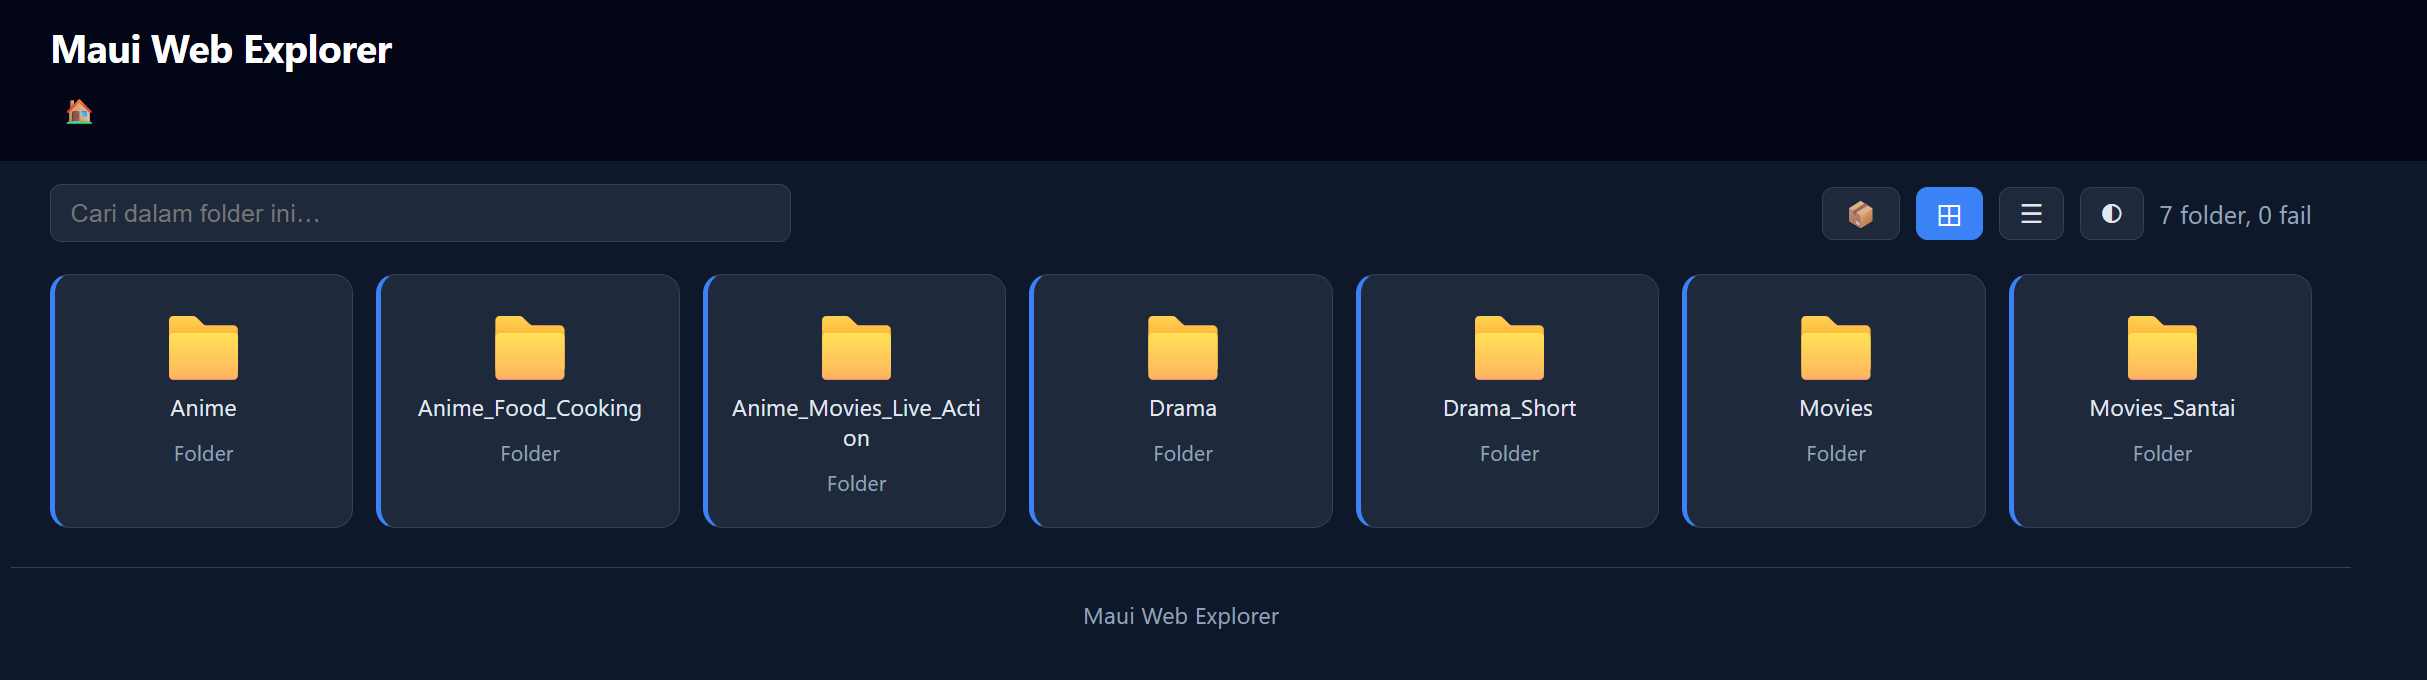
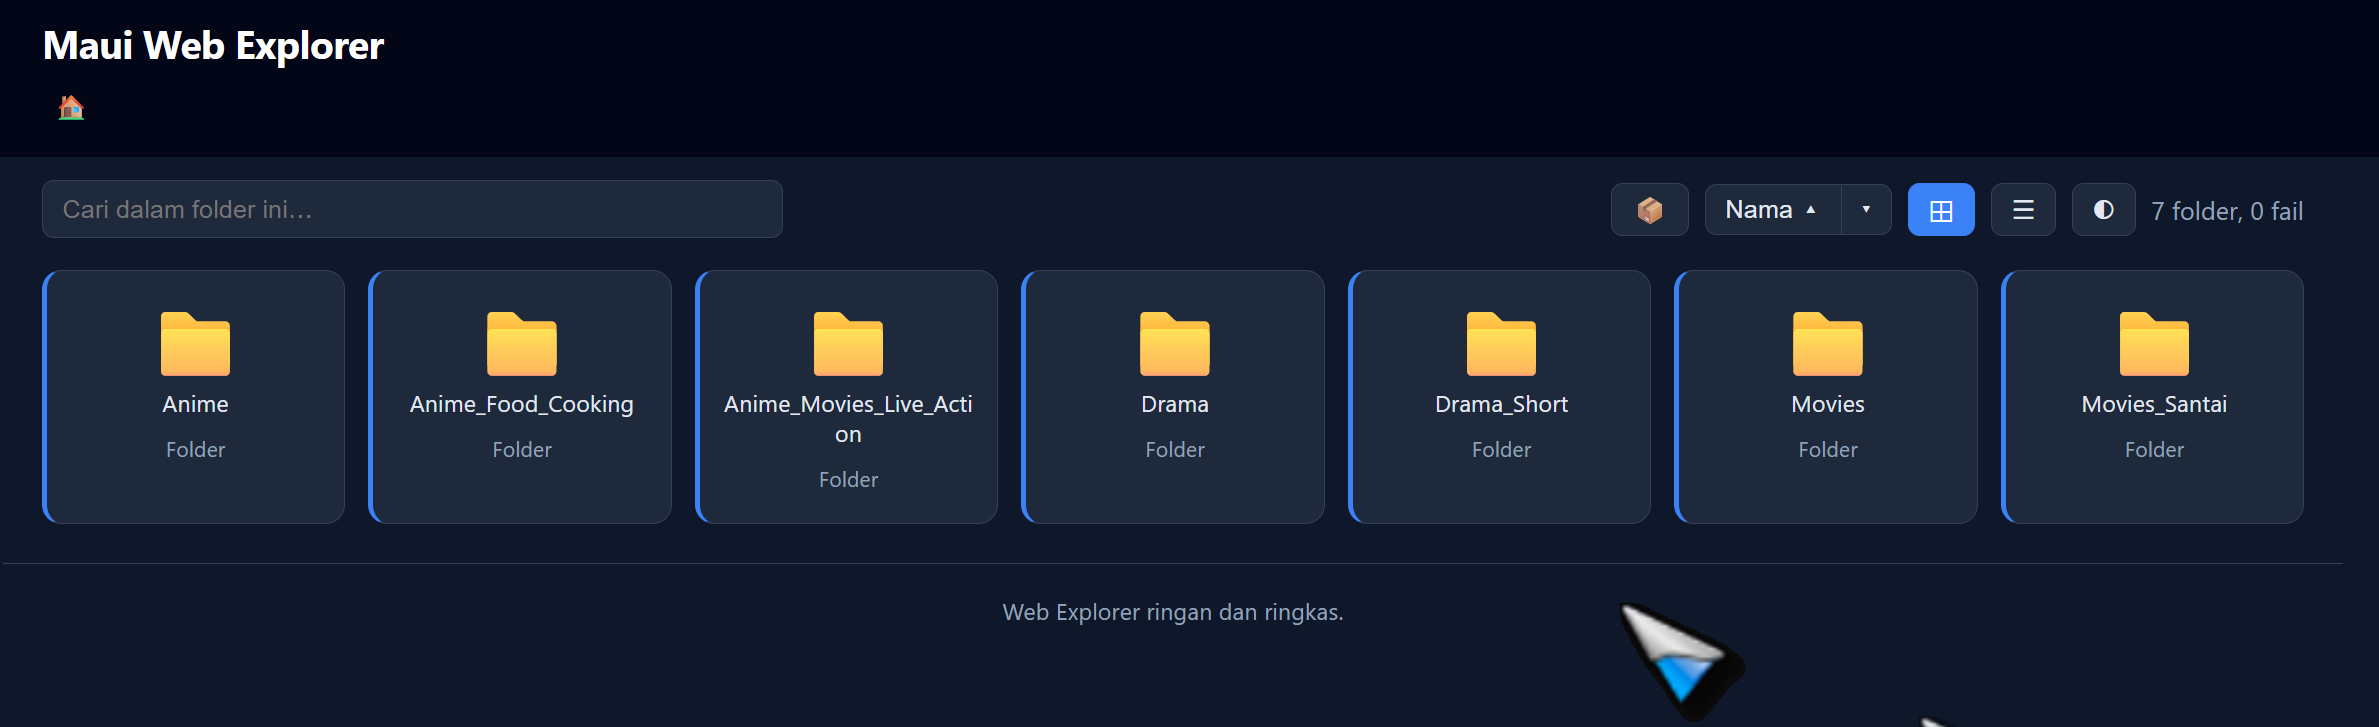
Lagi N tatal ikut butang; scroll-to-top tak tutup item; cache-bust screenshot ?v=3
- Lagi 15/20/30/40/50: lepas reveal, halaman tatal supaya butang kekal
  dalam viewport (item baru nampak di atas butang)
- Semua: tatal terus ke paling bawah (instant, sebab jump jauh)
- Butang ⇈ (scroll-to-top): cuma naik ke atas, item yang dah dibuka
  kekal terbuka (buang reset MWE_reveal_top); title tukar ke "Ke atas"
- README: cache-bust 001/001a/002 ke ?v=3 supaya GitHub tunjuk gambar
  baru; kemaskini penerangan toolbar (masuk Zip + Sort) dan bullet sort
  (nama/saiz/dicipta/diubah/jenis) ikut tingkah laku kod baharu

diff --git a/index.php b/index.php
@@ -693,7 +693,7 @@ table.list{width:100%;border-collapse:collapse;background:var(--surface);color:v
 </div>
 <?php endif; ?>
 
-<button class="top-fab" id="top-fab" type="button" title="Ke atas (muka pertama)" aria-label="Ke atas">⇈</button>
+<button class="top-fab" id="top-fab" type="button" title="Ke atas" aria-label="Ke atas">⇈</button>
 
 <?php if ($FOOTER !== ''): ?>
 <div class="footer"><?= htmlspecialchars($FOOTER) ?></div>
@@ -945,9 +945,18 @@ Array.prototype.slice.call(document.querySelectorAll('.dl-btn')).forEach(functio
     if (bar) bar.classList.toggle('hidden', shown >= total);
   }
   function loadMore(n){
+    // Simpan kedudukan butang "Lagi" sebelum item baru direveal.
+    var before = (bar && !bar.classList.contains('hidden')) ? bar.getBoundingClientRect().top : null;
     if (n === 'all') shown = total;
     else shown = Math.min(total, shown + n);
     applyReveal();
+    // Tatal ikut butang: kekal butang dalam viewport supaya item baru nampak.
+    // Bila semua dah terbuka, terus turun ke bawah sekali.
+    if (shown >= total) {
+      window.scrollTo({ top: document.documentElement.scrollHeight, behavior: 'auto' });
+    } else if (before !== null && bar) {
+      window.scrollBy({ top: bar.getBoundingClientRect().top - before, behavior: 'smooth' });
+    }
   }
   if (btn) btn.addEventListener('click', function(){ loadMore(step); });
   if (caret) caret.addEventListener('click', function(e){
@@ -965,13 +974,6 @@ Array.prototype.slice.call(document.querySelectorAll('.dl-btn')).forEach(functio
     });
   });
   document.addEventListener('click', function(){ if (menu) menu.classList.add('hidden'); });
-  // Reset paparan ke muka pertama (dipanggil oleh butang terapung scroll-to-top).
-  window.MWE_reveal_top = function(){
-    shown = Math.min(STEP, total);
-    step = STEP;
-    if (btn) btn.textContent = 'Lagi ' + STEP;
-    applyReveal();
-  };
   window.MWE_reveal = applyReveal;
   applyReveal();
 })();
@@ -987,7 +989,7 @@ Array.prototype.slice.call(document.querySelectorAll('.dl-btn')).forEach(functio
   window.addEventListener('scroll', onScroll, { passive: true });
   window.addEventListener('resize', onScroll);
   fab.addEventListener('click', function(){
-    if (window.MWE_reveal_top) window.MWE_reveal_top();
+    // Hanya tatal ke atas; jangan tutup item yang user dah buka.
     window.scrollTo({ top: 0, behavior: 'smooth' });
   });
   onScroll();

diff --git a/README.md b/README.md
@@ -1,6 +1,6 @@
 <div align="center">
 
-<img src="Screenshots/001.png?v=2" alt="Maui Web Explorer - single-file PHP file explorer in dark grid view" width="100%">
+<img src="Screenshots/001.png?v=3" alt="Maui Web Explorer - single-file PHP file explorer in dark grid view" width="100%">
 
 # Maui Web Explorer
 
@@ -48,7 +48,7 @@ There are many file browsers. Most want a database, a package manager, a contain
 - **Inline preview.** Images, video, audio, PDF, and text open in a lightbox without leaving the page.
 - **Handles big folders.** A progressive "Lagi N" (load more) button reveals items in batches (15 by default), so large folders stay light and fast.
 - **Dark and light themes.** Persisted in the browser, follows the system preference on first load.
-- **Search and sort.** Server-side search across the whole folder, and click-to-sort by name, size, or modified date.
+- **Search and sort.** Server-side search across the whole folder, and click-to-sort by name, size, created, modified, or type.
 - **No bloat.** No tracker, no analytics, no phone-home. Your files stay on your server.
 
 ---
@@ -72,9 +72,9 @@ There are many file browsers. Most want a database, a package manager, a contain
 
 **Scale and usability**
 - Server-side search (case-insensitive) across all items, applied before the reveal
-- Progressive "Load more" reveal: 15 items at first, then Lagi 20 / 30 / 40 / 50 / Semua
-- Floating **scroll-to-top** button that appears only when the page can scroll up and jumps back to the first page (and the very top) in one click
-- Click-to-sort columns: name, size, modified date
+- Progressive "Load more" reveal: 15 items at first, then Lagi 15 / 20 / 30 / 40 / 50 / Semua, and the page scrolls to keep the "Lagi" button in view (or jumps to the very bottom for Semua)
+- Floating **scroll-to-top** button that appears only when the page can scroll up and jumps back to the very top in one click, without closing the items you have already revealed
+- Click-to-sort by name, size, created, modified, or type (folders grouped first, choice saved in `localStorage`)
 - Dark / light theme toggle, saved in `localStorage`
 - Live folder and file count shown in the toolbar
 
@@ -89,19 +89,19 @@ There are many file browsers. Most want a database, a package manager, a contain
 
 ### Grid view, root folder (dark theme)
 
-<img src="Screenshots/001.png?v=2" alt="Maui Web Explorer grid view showing folders Drama, Drama_Short, Movies and Movies_Santai with a search box, view toggle and theme toggle in dark mode">
+<img src="Screenshots/001.png?v=3" alt="Maui Web Explorer grid view showing folders Drama, Drama_Short, Movies and Movies_Santai with a search box, view toggle and theme toggle in dark mode">
 
-The root directory rendered as a card grid. The toolbar carries the folder search box, the grid / list view switch, and the dark / light theme toggle. The status line reports the live folder and file counts.
+The root directory rendered as a card grid. The toolbar carries the folder search box, the "Download Semua (Zip)" button, the sort control (name / size / created / modified / type), the grid / list view switch, and the dark / light theme toggle. The status line reports the live folder and file counts.
 
 ### Grid view, browsing a subfolder (dark theme)
 
-<img src="Screenshots/002.png?v=2" alt="Maui Web Explorer browsing a subfolder called Drama_Short with a breadcrumb, 26 folder cards and an up / parent shortcut card highlighted">
+<img src="Screenshots/002.png?v=3" alt="Maui Web Explorer browsing a subfolder called Drama_Short with a breadcrumb, 26 folder cards and an up / parent shortcut card highlighted">
 
-Inside a subfolder. The breadcrumb shows the current path, the first card is the parent ("up") shortcut, and the grid lays out the folder contents. The same toolbar (search, view toggle, theme toggle) stays in place.
+Inside a subfolder. The breadcrumb shows the current path, the first card is the parent ("up") shortcut, and the grid lays out the folder contents. The same toolbar (search, Zip, sort, view toggle, theme toggle) stays in place.
 
 ### Grid view, root folder (light theme)
 
-<img src="Screenshots/001a.png" alt="Maui Web Explorer in the light theme showing the same root folder grid with folders Drama, Drama_Short, Movies and Movies_Santai on a light background, plus the search box, view toggle and theme toggle in the toolbar">
+<img src="Screenshots/001a.png?v=3" alt="Maui Web Explorer in the light theme showing the same root folder grid with folders Drama, Drama_Short, Movies and Movies_Santai on a light background, plus the search box, view toggle and theme toggle in the toolbar">
 
 The same root folder with the theme flipped to light. The toolbar's theme toggle switches between dark and light; the choice is saved in the browser (localStorage) and follows the system preference on first load. The card grid, search box, view toggle, and live folder and file counts all carry over unchanged.
 
